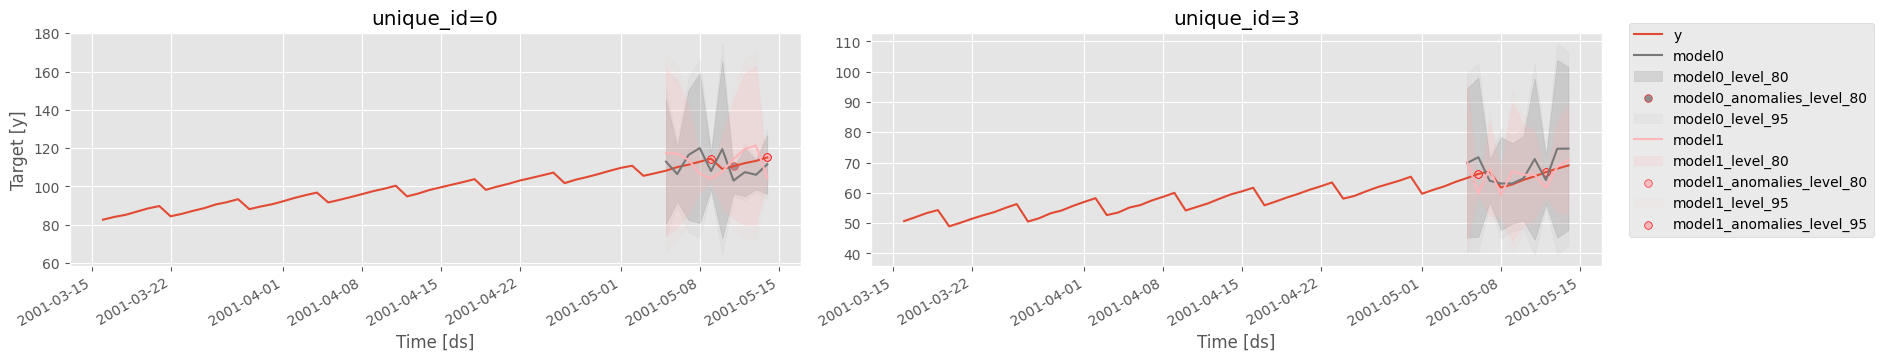
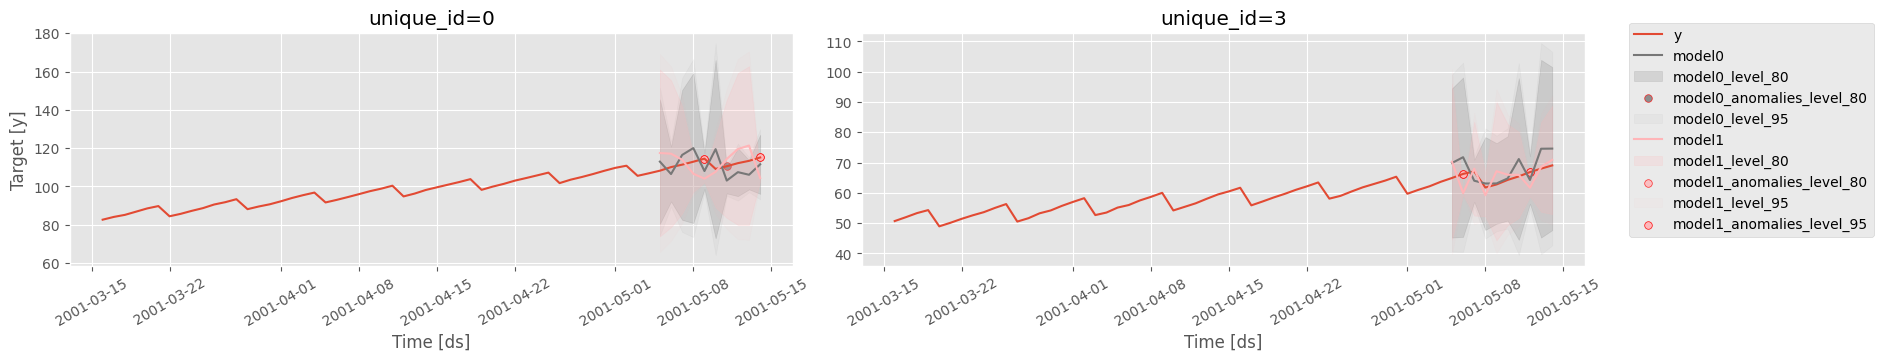
fix: ensure xticks are within plot limits (Nixtla/utilsforecast#125)

diff --git a/packages/utilsforecast/utilsforecast/plotting.py b/packages/utilsforecast/utilsforecast/plotting.py
@@ -389,14 +389,7 @@ def plot_series(
                 ax[row, col].set_ylabel(ylabel)
             if row == n_rows - 1:
                 ax[row, col].set_xlabel(xlabel)
-            xticklabels = ax[row, col].get_xticklabels()
-            xticks = ax[row, col].get_xticks()
-            ax[row, col].set_xticks(
-                rotation=30,
-                ticks=xticks,
-                labels=xticklabels,
-                ha="right",
-            )
+            ax[row, col].tick_params(axis="x", labelrotation=30)
         else:
             fig.update_annotations(selector={"text": str(i)}, text=title)
 
